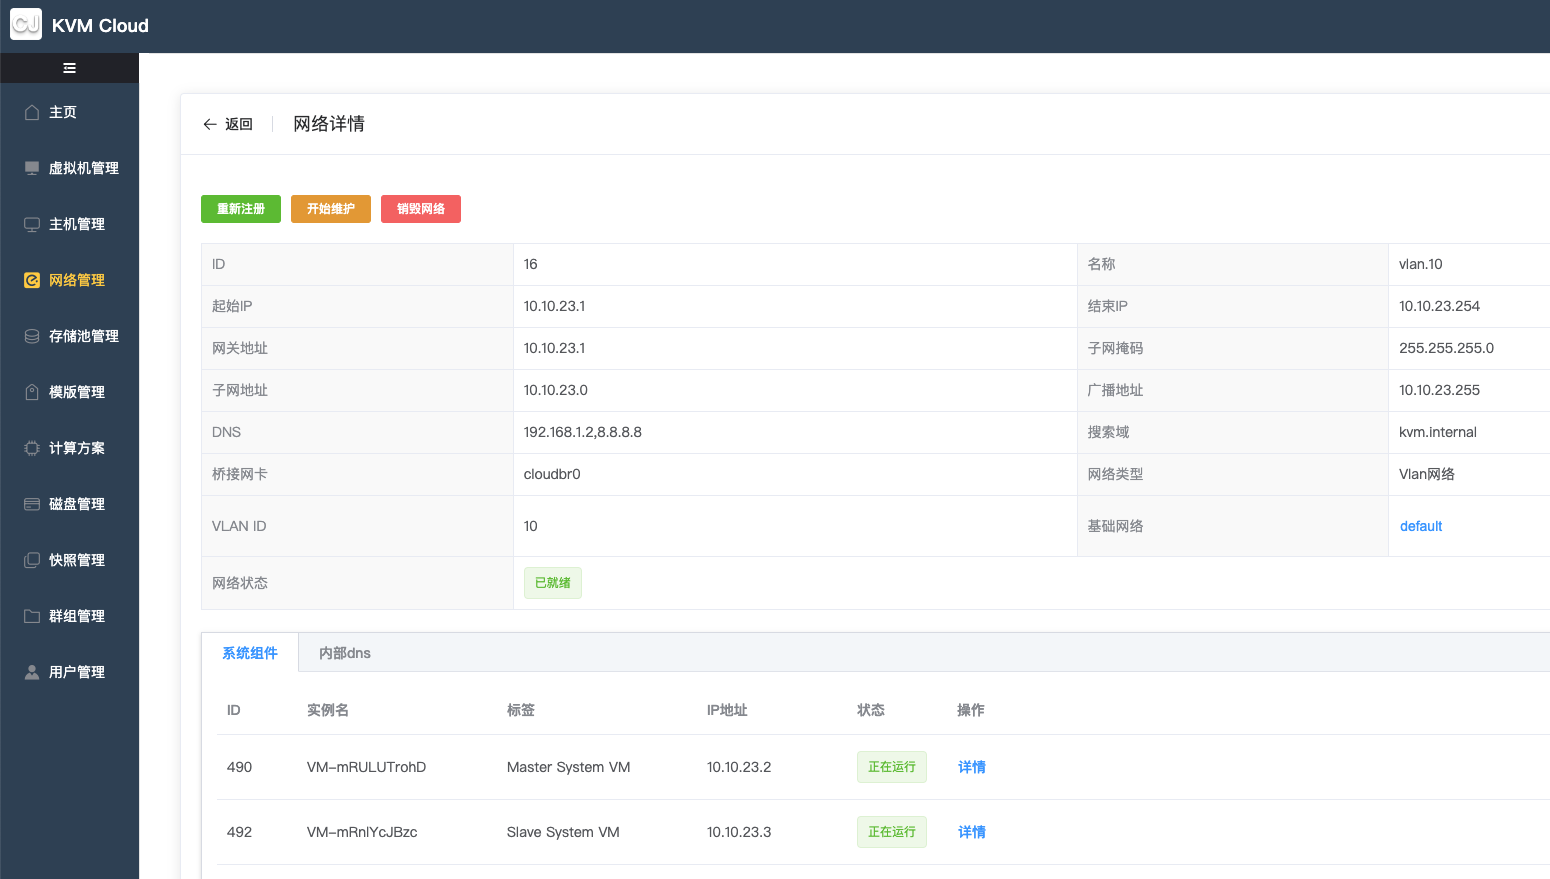
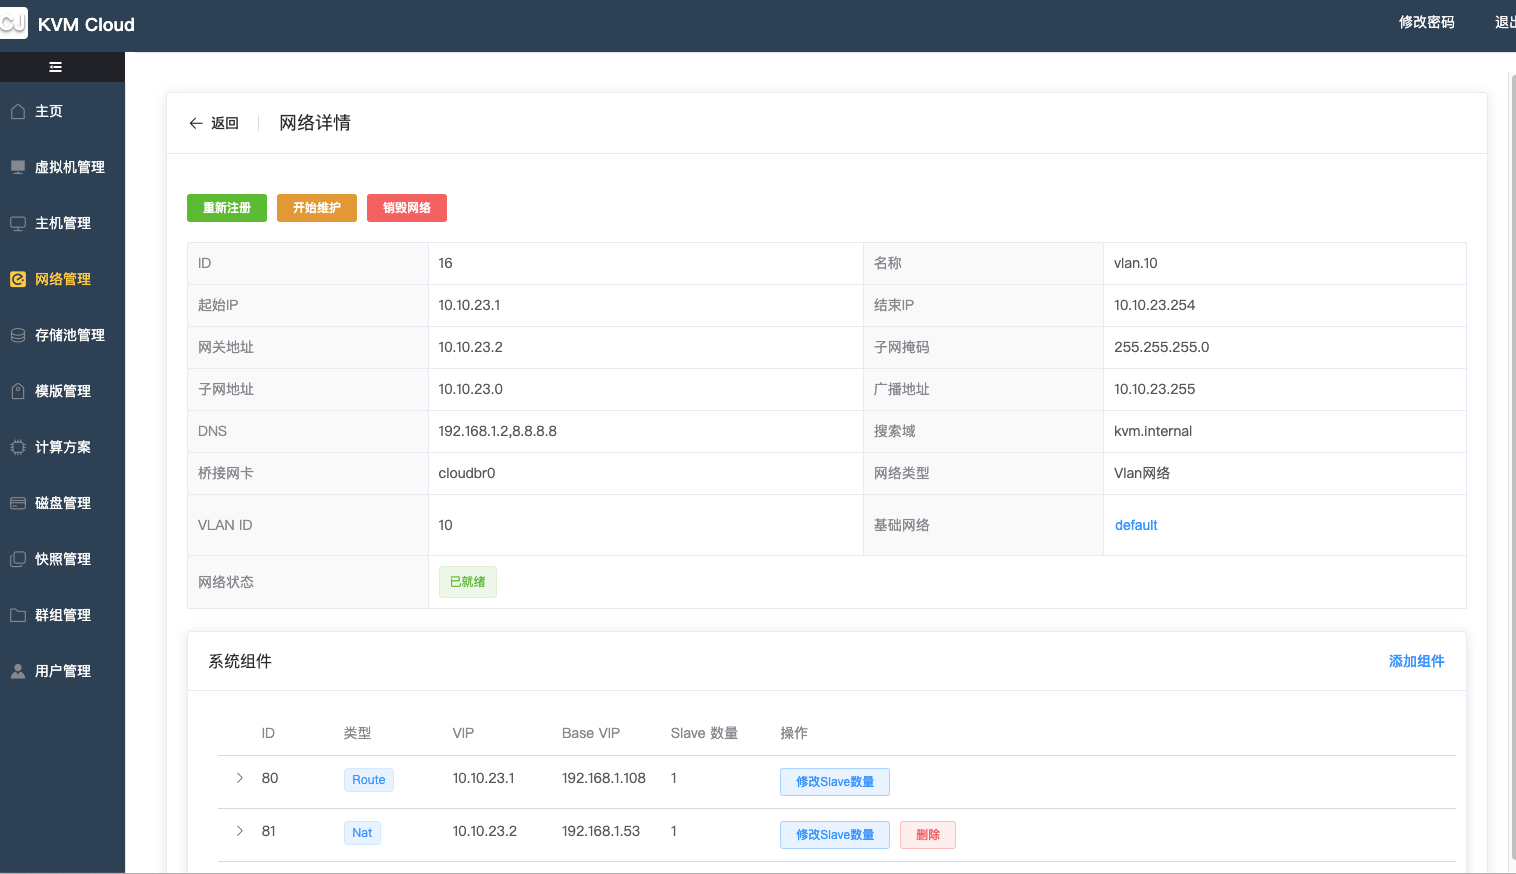
创建网络默认去掉nat组件创建，文档更新

diff --git a/cloud-management/src/main/java/cn/chenjun/cloud/management/servcie/NetworkService.java b/cloud-management/src/main/java/cn/chenjun/cloud/management/servcie/NetworkService.java
@@ -152,23 +152,6 @@ public class NetworkService extends AbstractService {
                 this.networkMapper.updateById(network);
             }
         }
-        //申请vlan组件
-        if (type == Constant.NetworkType.VLAN) {
-            GuestNetworkEntity componentVip = this.allocateService.allocateNetwork(network.getNetworkId());
-            GuestNetworkEntity basicComponentVip = this.allocateService.allocateNetwork(basicNetworkId);
-
-            ComponentEntity component = ComponentEntity.builder().masterGuestId(0).componentSlaveNumber(0).slaveGuestIds("[]")
-                    .componentType(Constant.ComponentType.NAT).networkId(network.getNetworkId())
-                    .componentVip(componentVip.getIp()).basicComponentVip(basicComponentVip.getIp()).build();
-            componentMapper.insert(component);
-
-            componentVip.setAllocateId(component.getComponentId());
-            componentVip.setAllocateType(Constant.NetworkAllocateType.COMPONENT_VIP);
-            this.guestNetworkMapper.updateById(componentVip);
-            basicComponentVip.setAllocateId(component.getComponentId());
-            basicComponentVip.setAllocateType(Constant.NetworkAllocateType.COMPONENT_VIP);
-            this.guestNetworkMapper.updateById(componentVip);
-        }
         BaseOperateParam operateParam = CreateNetworkOperate.builder().taskId(UUID.randomUUID().toString()).title("创建网络[" + network.getName() + "]").networkId(network.getNetworkId()).build();
         this.operateTask.addTask(operateParam);
         this.eventService.publish(NotifyData.<Void>builder().id(network.getNetworkId()).type(cn.chenjun.cloud.common.util.Constant.NotifyType.UPDATE_NETWORK).build());

diff --git a/README.md b/README.md
@@ -9,9 +9,10 @@
     7、多网卡支持
     8、支持 raw、qcow、qcow2、vdi、vmdk、vpc磁盘格式
     9、磁盘快照支持
-    10、通过OVS支持VPC概念
+    10、通过OVS支持Vlan网络划分
     11、支持cloud-init配置系统密码
     12、支持内部dns解析
+    13、支持nat转发
 
 ### 关于升级
     目前不支持V1、V2升级到最新版本
@@ -213,6 +214,9 @@ Agent: java -jar cloud-agent-1.0-SNAPSHOT.jar --spring.config.location=client.pr
 
 
 ![](images/vm.png)
+
+![](images/vm-info.png)
+
 
 ### 相关问题
 
